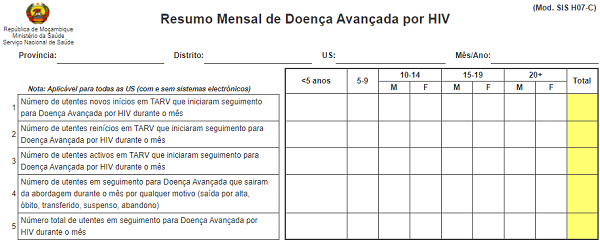
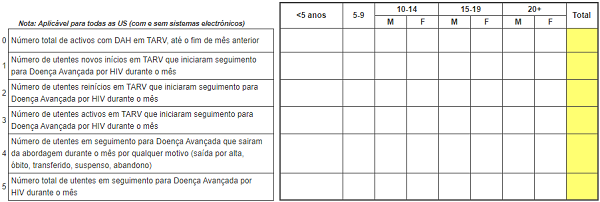
Adicionei o arquivo do Google Search Console e a tag do Google Analitics. Actualizei a prévia do totalizador.

diff --git a/index.html b/index.html
@@ -22,6 +22,15 @@
         <script src="fisiologia/multifuncoes.js"></script>
         <script src="fisiologia/db.js"></script>
         <script src="fisiologia/referencia.js"></script>
+        <!-- Google tag (gtag.js) -->
+        <script async src="https://www.googletagmanager.com/gtag/js?id=G-KD9JGT2J0W"></script>
+        <script>
+        window.dataLayer = window.dataLayer || [];
+        function gtag(){dataLayer.push(arguments);}
+        gtag('js', new Date());
+
+        gtag('config', 'G-KD9JGT2J0W');
+        </script>
         <noscript>O seu navegador está com o JavaScript desabilitado e isso bloqueia as funcionalidades do totalizador. Habilite-o nas configurações do navegador e recarregue a página.</noscript>
     </head>
      <body id="body" class="body-com-topo-propaganda" ontouchstart="">
@@ -121,7 +130,6 @@
                         <div class="--display-flex-xy-center --border-t-thick --border-r --border-b">
                             <span>5-9</span>
                         </div>
-    
                         <div class="ficha__header__grade-de-idade-e-sexo --border-t-thick --border-r --border-b">
                             <span class="body__header__celula-de-idade --display-flex-xy-center --border-b">10-14</span>     
                             <span class="--display-flex-xy-center --border-r">M</span>
@@ -142,8 +150,23 @@
                         </div>
                     </div>
                     <div class="ficha__body__row">
-                        <span class="ficha__body__numero-de-linha">1</span>
+                        <span class="ficha__body__numero-de-linha">0</span>
                         <div class="ficha__container-de-indicador --display-flex-y-center --border">
+                            <span>Número total de activos com DAH em TARV, até o fim de mês anterior</span>
+                        </div>
+                        <input type="number" min="0" data-total="l0-c1-a-c8" data-totaloutput="l0-c9" class="--border-l-thick --border-r  --border-b ficha__header__col--margin-l">
+                        <input type="number" min="0" data-total="l0-c1-a-c8" data-totaloutput="l0-c9" class="--border-r --border-b">
+                        <input type="number" min="0" data-total="l0-c1-a-c8" data-totaloutput="l0-c9" class="--border-r --border-b">
+                        <input type="number" min="0" data-total="l0-c1-a-c8" data-totaloutput="l0-c9" class="--border-r --border-b">
+                        <input type="number" min="0" data-total="l0-c1-a-c8" data-totaloutput="l0-c9" class="--border-r --border-b">
+                        <input type="number" min="0" data-total="l0-c1-a-c8" data-totaloutput="l0-c9" class="--border-r --border-b">
+                        <input type="number" min="0" data-total="l0-c1-a-c8" data-totaloutput="l0-c9" class="--border-r --border-b">
+                        <input type="number" min="0" data-total="l0-c1-a-c8" data-totaloutput="l0-c9" class="--border-r --border-b">
+                        <input type="number" min="0" readonly class="l0-c9 --border-b --border-r-thick">
+                    </div>
+                    <div class="ficha__body__row">
+                        <span class="ficha__body__numero-de-linha">1</span>
+                        <div class="ficha__container-de-indicador --display-flex-y-center  --border-l --border-r --border-b">
                             <span>Número de utentes novos inícios em TARV que iniciaram seguimento <br> para Doença Avançada por  HIV durante o mês</span>
                         </div>
                         <input type="number" min="0" data-total="l1-c1-a-c8" data-totaloutput="l1-c9" class="--border-l-thick --border-r  --border-b ficha__header__col--margin-l">
@@ -706,7 +729,7 @@
                         <li><a href=https://quinamine.github.io/totalizador-de-resumo-mensal-de-malaria/index.html class="footer__nav__link">Totalizador de Resumo Mensal de Malária</a></li>
                         <li><a href=https://quinamine.github.io/totalizador-de-resumo-mensal-de-ccd/index.html class="footer__nav__link">Totalizador de Resumo Mensal de CCD</a></li>
                         <li><a href=https://quinamine.github.io/totalizador-de-resumo-mensal-de-saaj/index.html class="footer__nav__link">Totalizador de Resumo Mensal de SAAJ</a></li>
-                        <li><a href=https://quinamine.github.io/totalizador-de-resumo-mensal-de-doenca-avancada-por-hiv/index.html class="footer__nav__link">Totalizador de Resumo Mensal de Doença Avançada por HIV</a></li>
+                        <li><a href=https://quinamine.github.io/totalizador-de-resumo-mensal-de-hiv-e-sida/index.html class="footer__nav__link">Totalizador de Resumo Mensal de HIV/SIDA</a></li>
                         <li><a href=https://quinamine.github.io/totalizador-de-resumo-mensal-de-consultas/index.html class="footer__nav__link">Totalizador de Resumo Mensal de Consultas</a></li>
                         <li><a href=https://quinamine.github.io/tarv-pediatrico/index.html class="footer__nav__link">TARV Pediátrico - Doseador de ARVs, CTZ, INH, 3HP e Lfx</a></li>
                         <li><a href=https://quinamine.github.io/calculadora-de-doses-pediatricas/index.html class="footer__nav__link">Calculadora de Doses Pediátricas</a></li>

diff --git a/anatomia/ficha.css b/anatomia/ficha.css
@@ -91,6 +91,7 @@
 .ficha__body__row {
     display: grid;
     grid-template-columns: 28px 400px calc(48px * 2 + 8px) repeat(8, 48px);
+    min-height: 36px;
 }
 .ficha__body__numero-de-linha {
     display: flex;
@@ -126,7 +127,6 @@
 }
 .ficha__body__row--seccao-3 {
     grid-template-columns: 28px 400px 56px repeat(6, 48px) 50px 46px;
-    min-height: 36px;
 }
 .ficha__header_-col-total-em-seg {
     display: grid;

diff --git a/google0e27df4e35f513e6.html b/google0e27df4e35f513e6.html
@@ -1,0 +1,1 @@
+google-site-verification: google0e27df4e35f513e6.html
